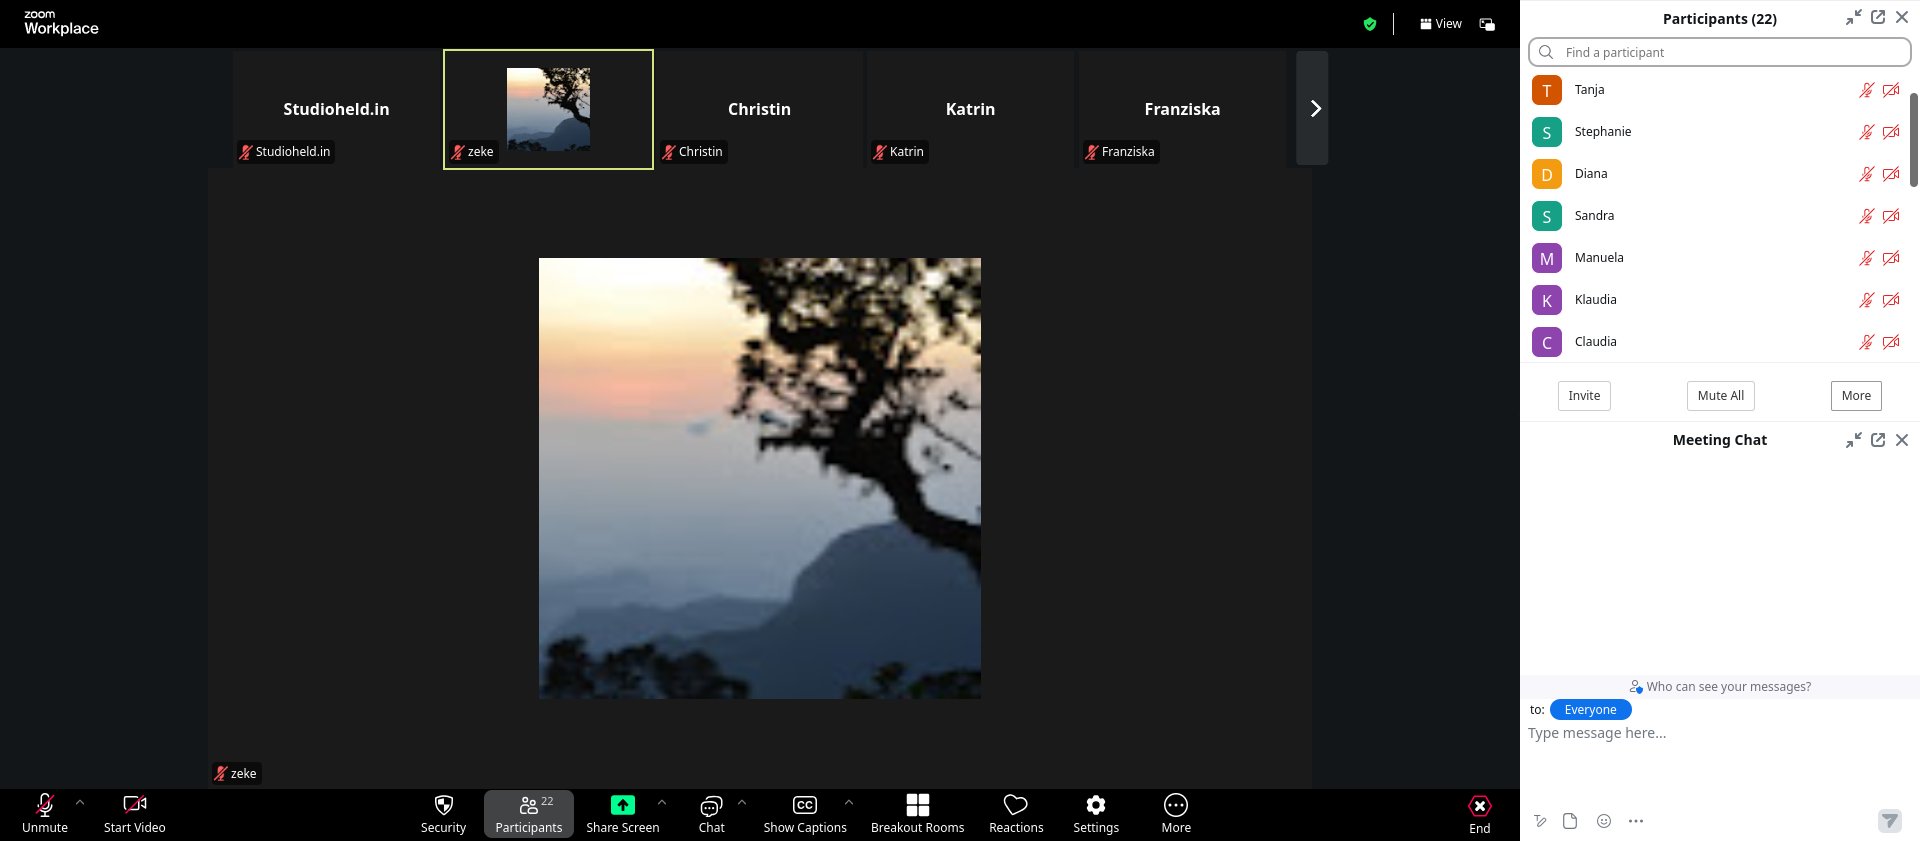
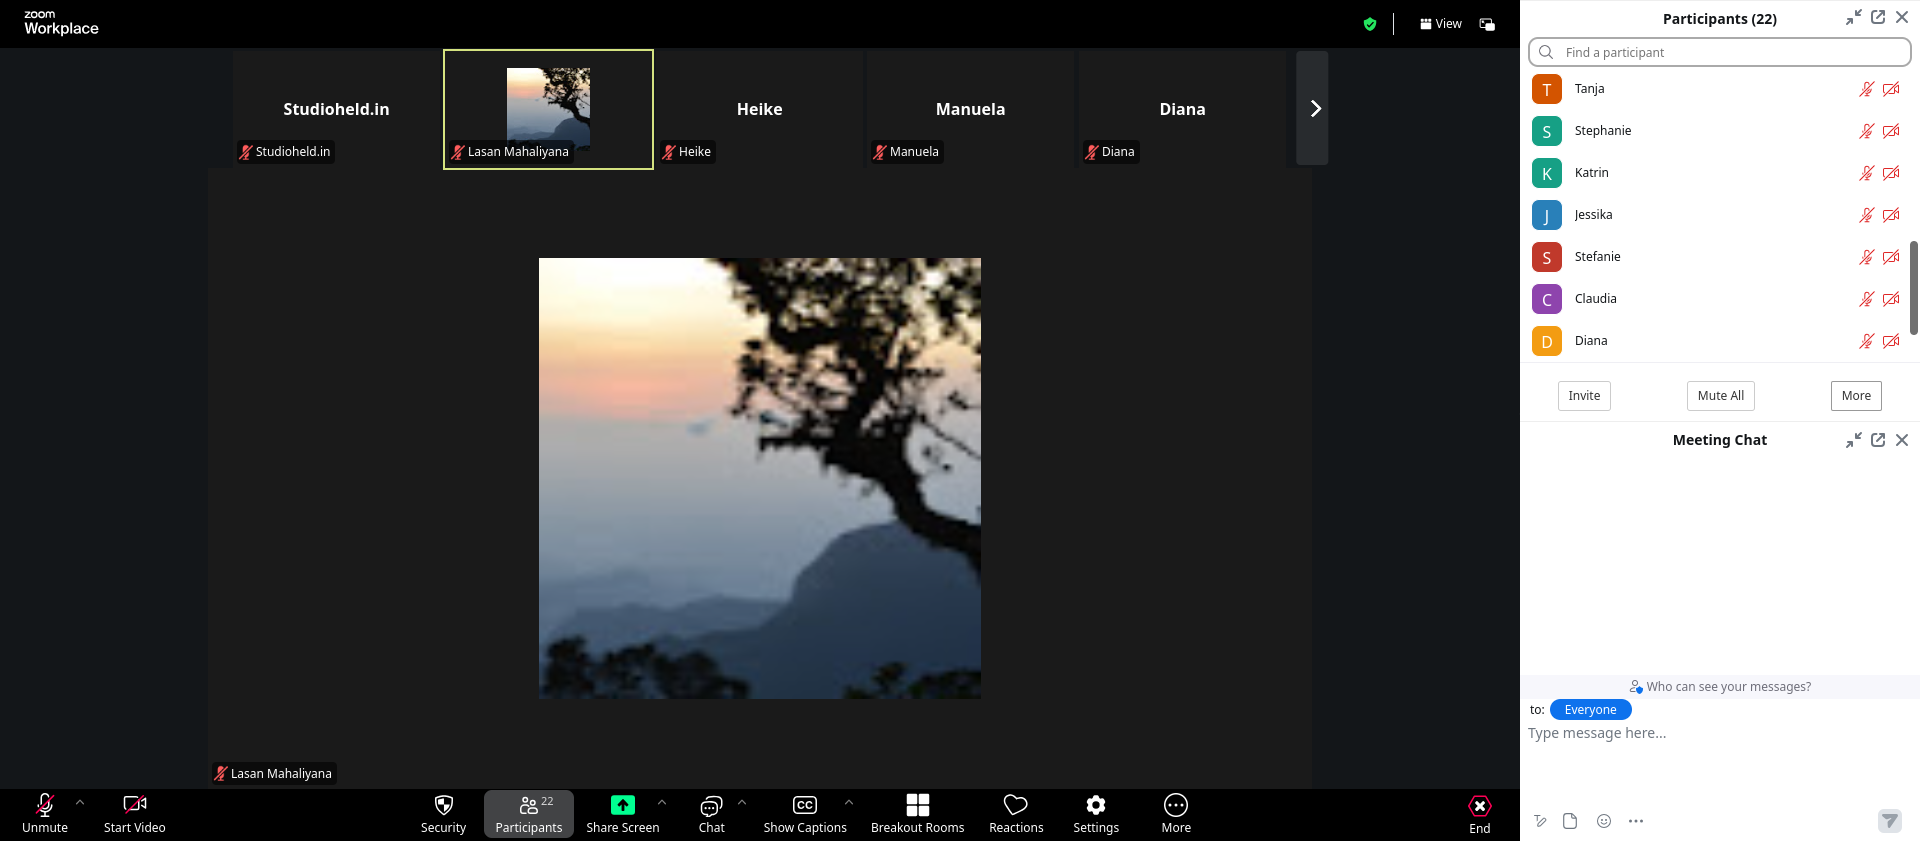
!cameras now works properly

diff --git a/botserver/bots/bots_helper/zoombot_aux.py b/botserver/bots/bots_helper/zoombot_aux.py
@@ -23,6 +23,20 @@ is_in_viewport_script = """
         elemRect.right <= parentRect.right
     );
     """
+is_above_or_below_script = """
+var elem = arguments[0],                 // Element to check
+    parent = arguments[1],               // Parent element
+    elemRect = elem.getBoundingClientRect(),
+    parentRect = parent.getBoundingClientRect();
+
+if (elemRect.bottom < parentRect.top) {
+    return 'above';
+} else if (elemRect.bottom > parentRect.bottom) {
+    return 'below';
+} else {
+    return 'within';
+}
+"""
 def spotlight(driver: WebDriver, lg, q: Queue, userid: str, channel_layer,*names) -> None:
     try:
         lg.info("spotlight")
@@ -203,33 +217,46 @@ def request_cameras(driver: WebDriver,names:list[str], lg, q: Queue, userid: str
                     ).click()
                 participant_search.send_keys(len(name)*"\b")
         else:
+            id_list = []
             participant_container = driver.find_element(By.XPATH,"//div[contains(@class,'participants-list-container participants-ul')]")
-            # offsetHeight = driver.execute_script("return arguments[0].offsetHeight;",participant_container)
-            # scrollHeight = driver.execute_script("return arguments[0].scrollHeight;",participant_container)
+            offsetHeight = driver.execute_script("return arguments[0].offsetHeight;",participant_container)
+            scrollHeight = driver.execute_script("return arguments[0].scrollHeight;",participant_container)
             driver.execute_script("arguments[0].scrollTop = 0;",participant_container)
-            # participant_list = driver.find_elements(By.XPATH,"//div[@class='participants-item-position']")
-            participant_list = driver.find_elements(By.XPATH,"//div[@class='participants-item-position']")
-            for element in participant_list:
-                is_in_viewport = driver.execute_script(is_in_viewport_script, element, participant_container) 
-                if not is_in_viewport:
-                    # need to scroll down
-                    driver.execute_script("arguments[0].scrollIntoView({block:'end',inline:'nearest',behaviour:'instant'})",element)    
-                    # breaking out of for loop to get the participant_list again
-                ActionChains(driver).move_to_element(element).click().perform()
-                sleep(WAIT_BETWEEN_ACTION)
 
-                try:
-                    more_button = element.find_element(By.XPATH,".//span[text()='More']")
-                    WebDriverWait(driver,2).until(
-                        EC.element_to_be_clickable(more_button)
-                    )
-                    more_button.click()
-                    WebDriverWait(driver, 2).until(
-                        EC.presence_of_element_located((By.XPATH, '//button[text()="Ask For Start Video"]'))
-                    ).click()
-                except:
-                    pass
+            scrollTop = 0
+            while scrollTop + offsetHeight < scrollHeight:
+                scrollTop = driver.execute_script("return arguments[0].scrollTop;",participant_container)
+                participant_list = driver.find_elements(By.XPATH,"//div[@class='participants-item-position']")
+                for element in participant_list:
 
+                    #checking whether we already checked this participant
+                    element_id = element.find_element(By.XPATH,".//div[contains(@class,'participants-li')]").get_attribute("id")
+                    if element_id not in id_list:
+                        #getting the position of element relative to parent viewport. If above, do nothing, if below, scroll down. If within, do the thing
+                        relative_pos = driver.execute_script(is_above_or_below_script, element, participant_container) 
+                        if relative_pos == 'below':
+                            # break out of for loop, which will cause a scroll down
+                            break
+                        if relative_pos == "within":
+                            # do some stuff
+                            ActionChains(driver).move_to_element(element).click().perform()
+                            id_list.append(element_id)
+                            sleep(WAIT_BETWEEN_ACTION)
+
+                            try:
+                                more_button = element.find_element(By.XPATH,".//span[text()='More']")
+                                WebDriverWait(driver,2).until(
+                                    EC.element_to_be_clickable(more_button)
+                                )
+                                more_button.click()
+                                WebDriverWait(driver, 2).until(
+                                    EC.presence_of_element_located((By.XPATH, '//button[text()="Ask For Start Video"]'))
+                                ).click()
+                            except:
+                                pass
+
+                driver.execute_script(f"arguments[0].scrollTop += {offsetHeight}",participant_container)
+                sleep(0.5)
 
         send_status(userid, "Asked for video", channel_layer)
     except Exception as e:

diff --git a/botserver/bots/bots_helper/zoombot.py b/botserver/bots/bots_helper/zoombot.py
@@ -41,7 +41,7 @@ def run_zoombot(meeting_link,userid,timeout,q:Queue):
         chrome_options.add_argument("--disable-gpu")
         chrome_options.add_argument("--no-sandbox")
     # chrome_options.add_argument("--headless")
-    # chrome_options.add_argument("--user-data-dir=chrome-data")
+    chrome_options.add_argument("--user-data-dir=chrome-data")
     # chrome_options.add_argument("--disable-gpu")
     # chrome_options.add_argument("--no-sandbox")
 
